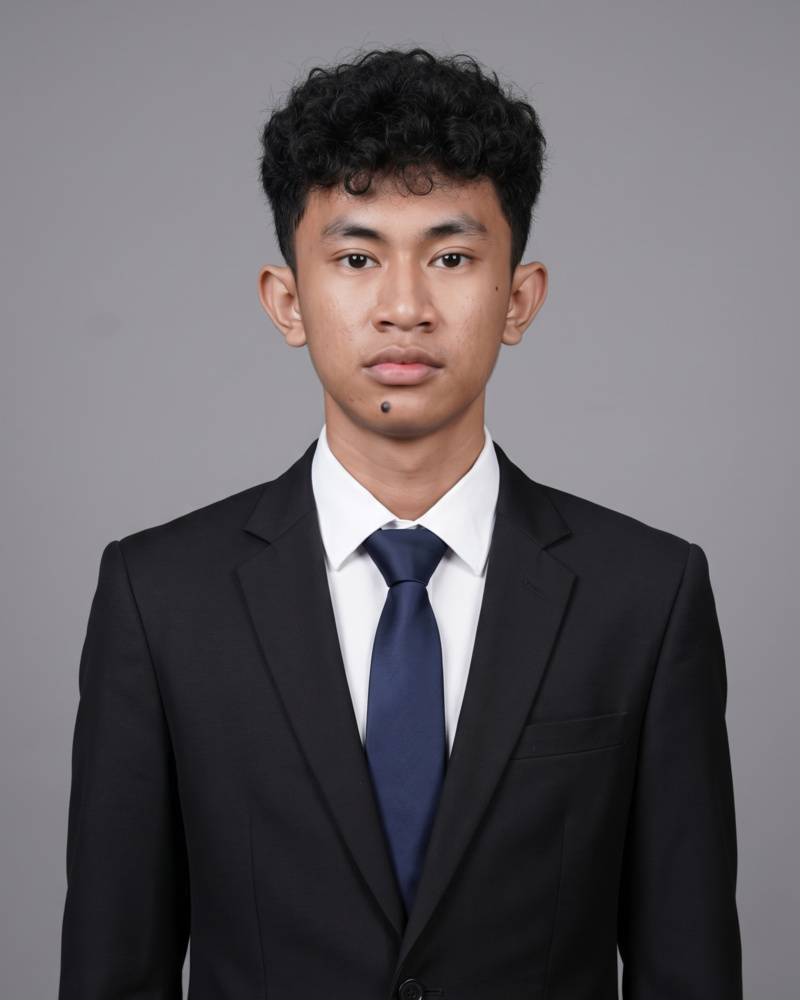
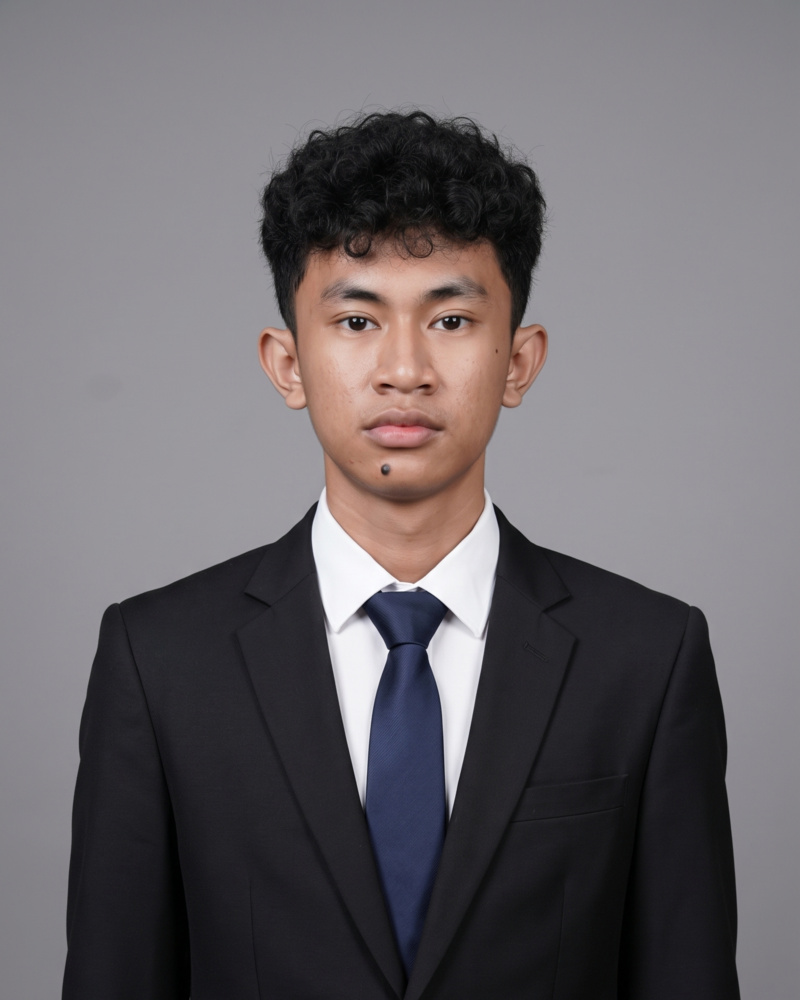
Update team photos with zoomed out framing and separate cards into spacious directory layout

diff --git a/resources/js/Pages/Teams/Index.jsx b/resources/js/Pages/Teams/Index.jsx
@@ -1,16 +1,14 @@
 import { Head, Link } from '@inertiajs/react';
 import AppLayout from '@/Layouts/AppLayout';
-import { Card, CardContent } from '@/components/ui/card';
+import { Card } from '@/components/ui/card';
 import { Badge } from '@/components/ui/badge';
 import { Button } from '@/components/ui/button';
 import {
     ShieldCheck,
     Mail,
-    CheckCircle2,
-    Clock,
-    ListTodo,
     ArrowRight,
     Users,
+    ListTodo,
 } from 'lucide-react';
 
 export default function TeamsIndex({ members = [], counts = {} }) {
@@ -18,140 +16,123 @@ export default function TeamsIndex({ members = [], counts = {} }) {
         <AppLayout currentNav="teams" counts={counts}>
             <Head title="Teams" />
 
-            <div className="flex-1 p-6 md:p-8 max-w-6xl mx-auto w-full space-y-6">
+            <div className="flex-1 p-6 md:p-8 max-w-5xl mx-auto w-full space-y-8">
                 {/* Header */}
                 <div className="flex flex-col sm:flex-row sm:items-center justify-between gap-4 pb-4 border-b border-slate-200 dark:border-slate-800">
                     <div className="space-y-1">
-                        <div className="flex items-center gap-2">
+                        <div className="flex items-center gap-2.5">
                             <div className="h-8 w-8 rounded-lg bg-slate-900 dark:bg-slate-100 text-white dark:text-slate-900 flex items-center justify-center">
                                 <Users className="h-4 w-4" />
                             </div>
                             <h1 className="text-xl font-bold tracking-tight text-slate-900 dark:text-slate-100">
-                                Teams
+                                Teams Directory
                             </h1>
                         </div>
                         <p className="text-xs text-slate-500 dark:text-slate-400">
-                            Struktur anggota tim dan penanggung jawab di Marsha Security Workspace
+                            Daftar kontributor independen dan penanggung jawab di Marsha Security
                         </p>
                     </div>
 
-                    <div className="flex items-center gap-2">
-                        <Link href={route('tasks.index')}>
-                            <Button variant="outline" size="sm" className="text-xs gap-1.5 h-8">
-                                <ListTodo className="h-3.5 w-3.5" />
-                                Task Board
-                            </Button>
-                        </Link>
-                    </div>
+                    <Link href={route('tasks.index')}>
+                        <Button variant="outline" size="sm" className="text-xs gap-1.5 h-8">
+                            <ListTodo className="h-3.5 w-3.5" />
+                            Task Board
+                        </Button>
+                    </Link>
                 </div>
 
-                {/* Team Members Grid */}
-                <div className="grid grid-cols-1 md:grid-cols-2 gap-6 items-stretch">
+                {/* Team Members List with spacious separate horizontal cards */}
+                <div className="space-y-8">
                     {members.map((member) => {
                         const hasRole = Boolean(member.role && member.role.trim() !== '');
 
                         return (
                             <Card
                                 key={member.id}
-                                className="overflow-hidden border-slate-200/80 dark:border-slate-800 bg-white dark:bg-slate-900/90 shadow-sm hover:shadow-md transition-all duration-200 flex flex-col"
+                                className="overflow-hidden border border-slate-200/90 dark:border-slate-800 bg-white dark:bg-slate-900 shadow-xs hover:border-slate-300 dark:hover:border-slate-700 transition-colors"
                             >
-                                {/* Photo Container with standardized 4:5 aspect ratio */}
-                                <div className="relative w-full aspect-[4/5] max-h-[420px] bg-slate-100 dark:bg-slate-950 overflow-hidden group">
-                                    {member.photo_url ? (
-                                        <img
-                                            src={member.photo_url}
-                                            alt={member.name}
-                                            className="w-full h-full object-cover object-top transition-transform duration-300 group-hover:scale-[1.02]"
-                                            loading="eager"
-                                        />
-                                    ) : (
-                                        <div className="w-full h-full flex items-center justify-center text-slate-400 font-bold text-3xl">
-                                            {member.name.charAt(0)}
-                                        </div>
-                                    )}
-
-                                    {/* Top overlay badge if role exists */}
-                                    <div className="absolute top-3 left-3 right-3 flex items-center justify-between pointer-events-none">
-                                        {hasRole ? (
-                                            <Badge className="bg-slate-900/90 backdrop-blur-sm text-white border-0 text-[11px] font-semibold px-2.5 py-1 shadow-sm flex items-center gap-1.5">
-                                                <ShieldCheck className="h-3.5 w-3.5 text-blue-400" />
-                                                {member.role}
-                                            </Badge>
+                                <div className="p-6 md:p-7 flex flex-col md:flex-row items-center md:items-start gap-6 md:gap-8">
+                                    {/* Standardized Formal Photo Box with breathing room */}
+                                    <div className="relative w-40 h-52 sm:w-44 sm:h-56 rounded-xl overflow-hidden shrink-0 border border-slate-200 dark:border-slate-700 bg-slate-100 dark:bg-slate-950 shadow-xs">
+                                        {member.photo_url ? (
+                                            <img
+                                                src={member.photo_url}
+                                                alt={member.name}
+                                                className="w-full h-full object-cover object-top"
+                                                loading="eager"
+                                            />
                                         ) : (
-                                            <div />
+                                            <div className="w-full h-full flex items-center justify-center text-slate-400 font-bold text-2xl">
+                                                {member.name.charAt(0)}
+                                            </div>
                                         )}
-                                        <span className="inline-flex items-center gap-1.5 px-2 py-0.5 rounded-full text-[10px] font-medium bg-emerald-500/90 text-white backdrop-blur-sm shadow-xs">
-                                            <span className="h-1.5 w-1.5 rounded-full bg-white animate-pulse" />
-                                            Active
-                                        </span>
                                     </div>
-                                </div>
 
-                                {/* Details & Info */}
-                                <CardContent className="p-5 flex-1 flex flex-col justify-between space-y-4">
-                                    <div className="space-y-2">
-                                        <div className="flex items-start justify-between gap-2">
-                                            <div>
-                                                <h2 className="text-base font-bold text-slate-900 dark:text-slate-100 leading-snug">
-                                                    {member.name}
-                                                </h2>
-                                                <div className="flex items-center gap-1.5 text-xs text-slate-500 dark:text-slate-400 mt-0.5">
-                                                    <Mail className="h-3 w-3" />
-                                                    <span className="font-mono text-[11px]">{member.email}</span>
+                                    {/* Content & Details */}
+                                    <div className="flex-1 flex flex-col justify-between space-y-4 text-center md:text-left w-full min-w-0">
+                                        <div className="space-y-2">
+                                            <div className="flex flex-col md:flex-row md:items-center justify-between gap-3">
+                                                <div>
+                                                    <div className="flex items-center justify-center md:justify-start gap-2.5 flex-wrap">
+                                                        <h2 className="text-lg font-bold text-slate-900 dark:text-slate-100">
+                                                            {member.name}
+                                                        </h2>
+                                                        {hasRole && (
+                                                            <Badge className="bg-slate-900 dark:bg-slate-100 text-white dark:text-slate-900 text-xs font-semibold px-2.5 py-0.5 shadow-xs flex items-center gap-1.5">
+                                                                <ShieldCheck className="h-3.5 w-3.5 text-blue-400 dark:text-blue-600" />
+                                                                {member.role}
+                                                            </Badge>
+                                                        )}
+                                                    </div>
+                                                    <div className="flex items-center justify-center md:justify-start gap-1.5 text-xs text-slate-500 dark:text-slate-400 mt-1">
+                                                        <Mail className="h-3.5 w-3.5" />
+                                                        <span className="font-mono text-xs">{member.email}</span>
+                                                    </div>
+                                                </div>
+
+                                                <span className="inline-flex items-center gap-1.5 px-2.5 py-1 rounded-full text-xs font-medium bg-emerald-50 dark:bg-emerald-950/60 text-emerald-700 dark:text-emerald-300 border border-emerald-200 dark:border-emerald-800/60 self-center md:self-auto">
+                                                    <span className="h-2 w-2 rounded-full bg-emerald-500" />
+                                                    Active Member
+                                                </span>
+                                            </div>
+
+                                            {hasRole ? (
+                                                <p className="text-xs text-slate-600 dark:text-slate-400 leading-relaxed pt-1 max-w-2xl">
+                                                    Perancangan arsitektur keamanan sistem, analisis celah kerentanan, dan standardisasi keamanan infrastruktur proyek Marsha Security.
+                                                </p>
+                                            ) : (
+                                                <p className="text-xs text-slate-500 dark:text-slate-400 italic leading-relaxed pt-1 max-w-2xl">
+                                                    Kontributor inti dalam manajemen pengerjaan tugas dan operasional alur kerja tim.
+                                                </p>
+                                            )}
+                                        </div>
+
+                                        {/* Task Metrics & Action */}
+                                        <div className="pt-4 border-t border-slate-100 dark:border-slate-800 flex flex-wrap items-center justify-between gap-4">
+                                            <div className="flex items-center gap-5 text-xs justify-center md:justify-start w-full sm:w-auto">
+                                                <div className="flex items-center gap-1.5">
+                                                    <span className="text-slate-400 font-medium">Total:</span>
+                                                    <span className="font-bold text-slate-900 dark:text-slate-100">{member.total_tasks_count ?? 0}</span>
+                                                </div>
+                                                <div className="flex items-center gap-1.5">
+                                                    <span className="text-blue-500 font-medium">Berjalan:</span>
+                                                    <span className="font-bold text-blue-700 dark:text-blue-300">{member.active_tasks_count ?? 0}</span>
+                                                </div>
+                                                <div className="flex items-center gap-1.5">
+                                                    <span className="text-emerald-500 font-medium">Selesai:</span>
+                                                    <span className="font-bold text-emerald-700 dark:text-emerald-300">{member.completed_tasks_count ?? 0}</span>
                                                 </div>
                                             </div>
-                                        </div>
 
-                                        {hasRole ? (
-                                            <p className="text-xs text-slate-600 dark:text-slate-400 leading-relaxed pt-1">
-                                                Bertanggung jawab pada perancangan arsitektur keamanan, mitigasi celah, dan standar implementasi sistem.
-                                            </p>
-                                        ) : (
-                                            <p className="text-xs text-slate-500 dark:text-slate-400 italic leading-relaxed pt-1">
-                                                Kontributor utama dalam koordinasi pengerjaan dan delivery sistem Marsha Security.
-                                            </p>
-                                        )}
-                                    </div>
-
-                                    {/* Task Metrics */}
-                                    <div className="pt-2 border-t border-slate-100 dark:border-slate-800 grid grid-cols-3 gap-2 text-center">
-                                        <div className="p-2 rounded-lg bg-slate-50 dark:bg-slate-800/50">
-                                            <div className="text-[10px] uppercase font-semibold text-slate-400 tracking-wider">Total</div>
-                                            <div className="text-sm font-bold text-slate-900 dark:text-slate-100 mt-0.5">
-                                                {member.total_tasks_count ?? 0}
-                                            </div>
-                                        </div>
-                                        <div className="p-2 rounded-lg bg-blue-50/70 dark:bg-blue-950/40">
-                                            <div className="text-[10px] uppercase font-semibold text-blue-600 dark:text-blue-400 tracking-wider">Berjalan</div>
-                                            <div className="text-sm font-bold text-blue-700 dark:text-blue-300 mt-0.5">
-                                                {member.active_tasks_count ?? 0}
-                                            </div>
-                                        </div>
-                                        <div className="p-2 rounded-lg bg-emerald-50/70 dark:bg-emerald-950/40">
-                                            <div className="text-[10px] uppercase font-semibold text-emerald-600 dark:text-emerald-400 tracking-wider">Selesai</div>
-                                            <div className="text-sm font-bold text-emerald-700 dark:text-emerald-300 mt-0.5">
-                                                {member.completed_tasks_count ?? 0}
-                                            </div>
+                                            <Link href={route('tasks.index', { search: member.name })} className="w-full sm:w-auto">
+                                                <Button variant="outline" size="sm" className="w-full sm:w-auto text-xs gap-1.5 h-8">
+                                                    Lihat Tugas
+                                                    <ArrowRight className="h-3.5 w-3.5" />
+                                                </Button>
+                                            </Link>
                                         </div>
                                     </div>
-
-                                    {/* Footer Button */}
-                                    <div className="pt-1">
-                                        <Link
-                                            href={route('tasks.index', { search: member.name })}
-                                            className="w-full block"
-                                        >
-                                            <Button
-                                                variant="outline"
-                                                size="sm"
-                                                className="w-full text-xs justify-center gap-1.5 h-8 font-medium hover:bg-slate-100 dark:hover:bg-slate-800"
-                                            >
-                                                Lihat Task Terkait
-                                                <ArrowRight className="h-3.5 w-3.5" />
-                                            </Button>
-                                        </Link>
-                                    </div>
-                                </CardContent>
+                                </div>
                             </Card>
                         );
                     })}
